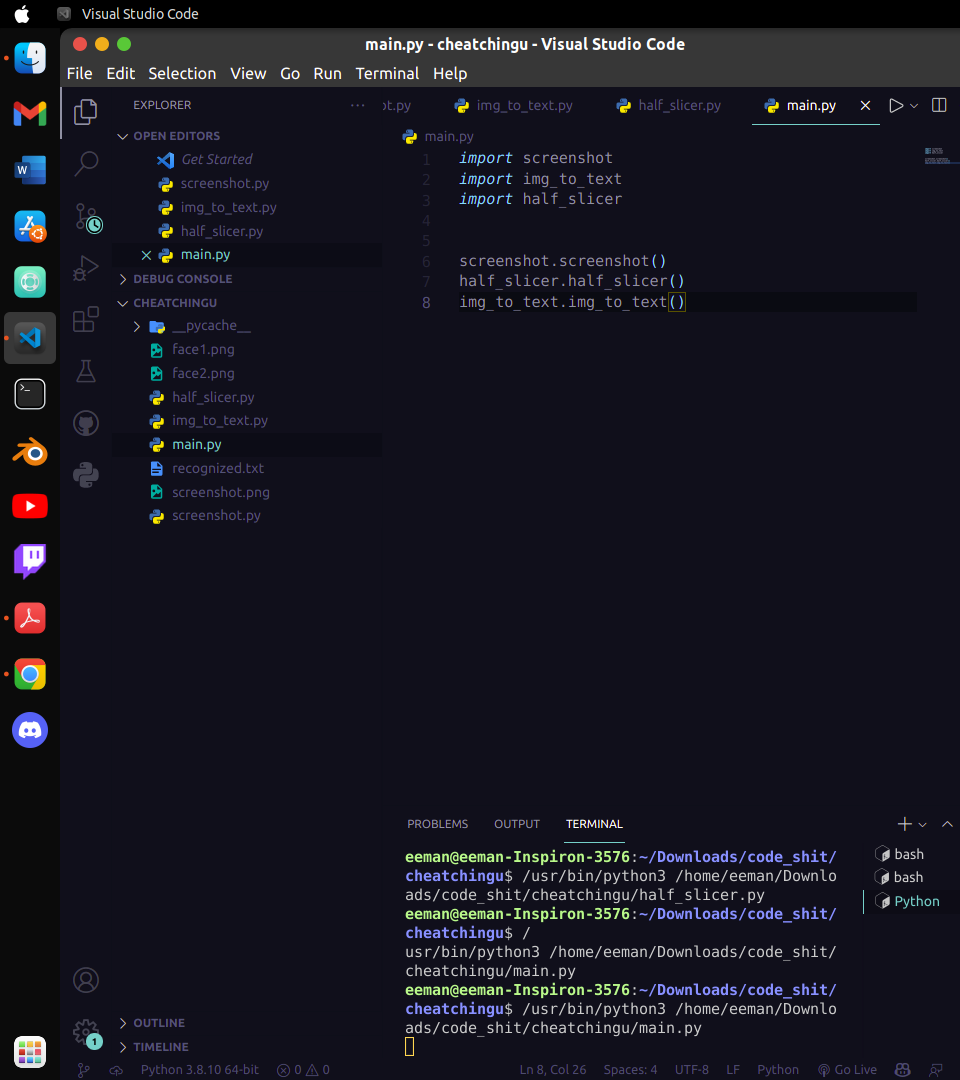
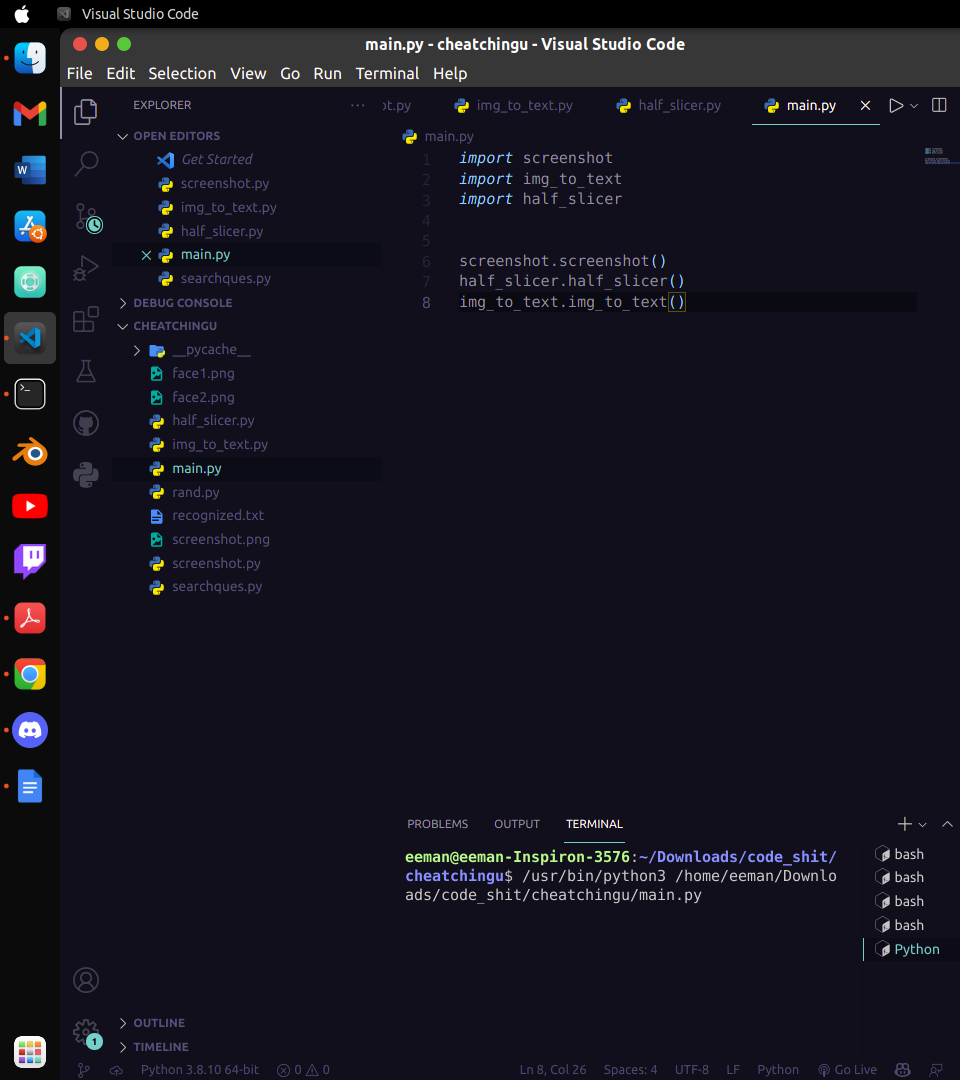
update

diff --git a/rand.py b/rand.py
@@ -1,0 +1,32 @@
+# Python 3.x code to demonstrate star pattern
+
+# Function to demonstrate printing pattern
+def isocilis(n):
+	
+	# number of spaces
+	k = 2*n - 2
+
+	# outer loop to handle number of rows
+	for i in range(0, n):
+	
+		# inner loop to handle number spaces
+		# values changing acc. to requirement
+		for j in range(0, k):
+			print(end=" ")
+	
+		# decrementing k after each loop
+		k = k - 2
+	
+		# inner loop to handle number of columns
+		# values changing acc. to outer loop
+		for j in range(0, i+1):
+		
+			# printing stars
+			print("* ", end="")
+	
+		# ending line after each row
+		print("\r")
+
+# Driver Code
+n = 5
+isocilis(n)

diff --git a/searchques.py b/searchques.py
@@ -1,5 +1,4 @@
 import  google 
 import  wikipedia 
-
-''' funtion to take a text file named recognised.txt and goggle all the sentences from it and put the results in a new text file named ans.tx'''
+import os
 

diff --git a/fibo.py b/fibo.py
@@ -1,0 +1,8 @@
+a=0
+b=1
+
+for j in range(0,10):
+    c=b+a
+    print(a,',',b)
+    a=b
+    b=c
